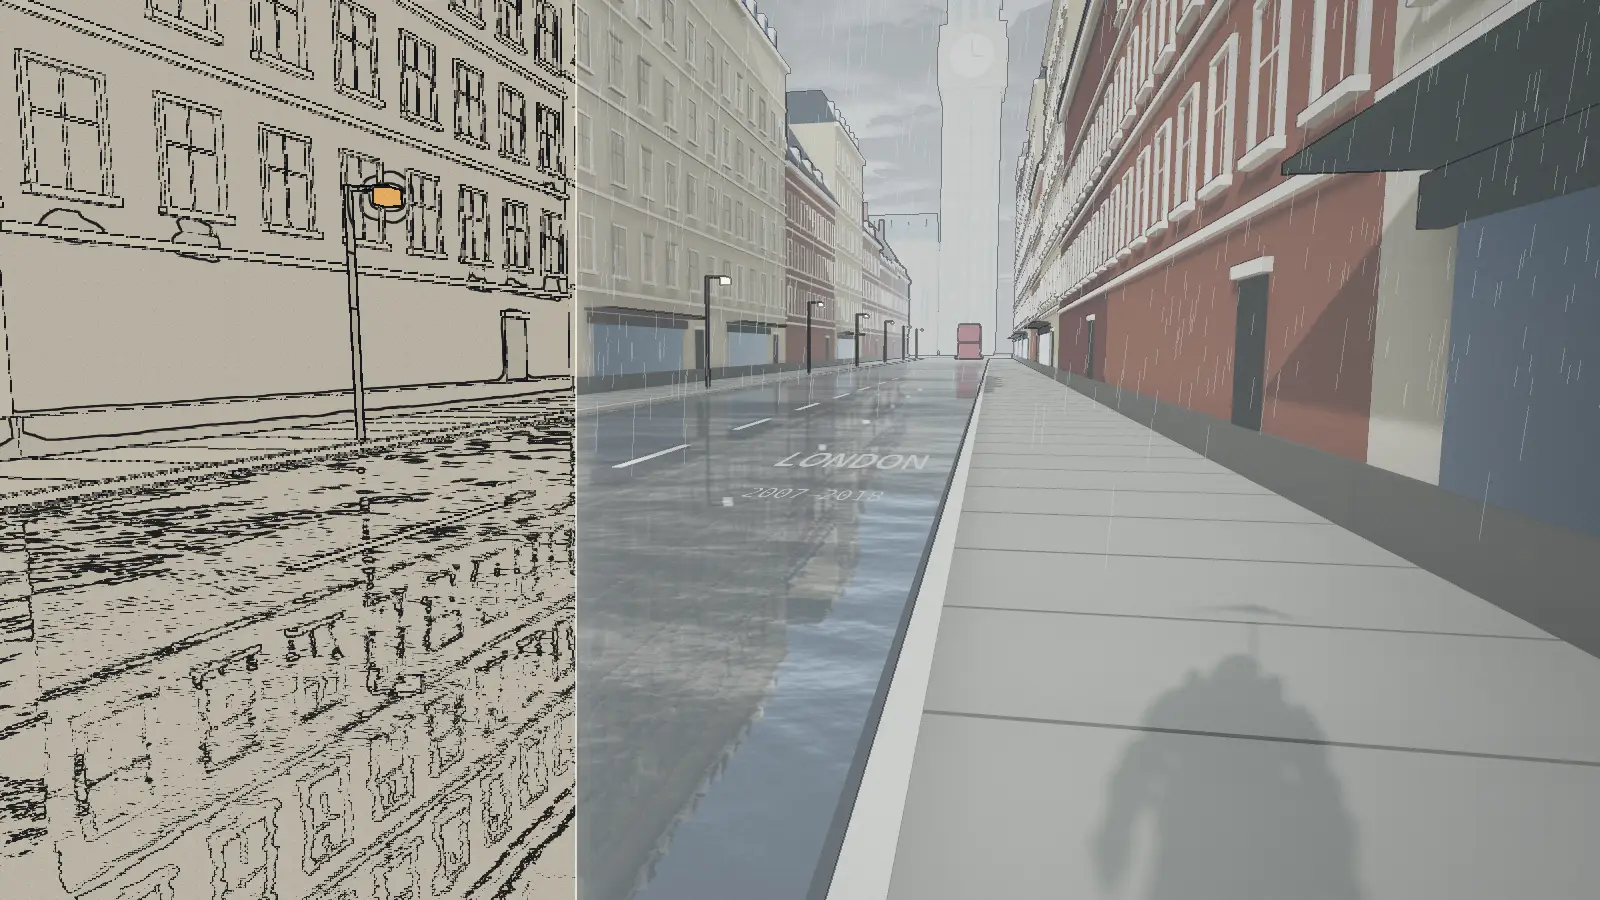
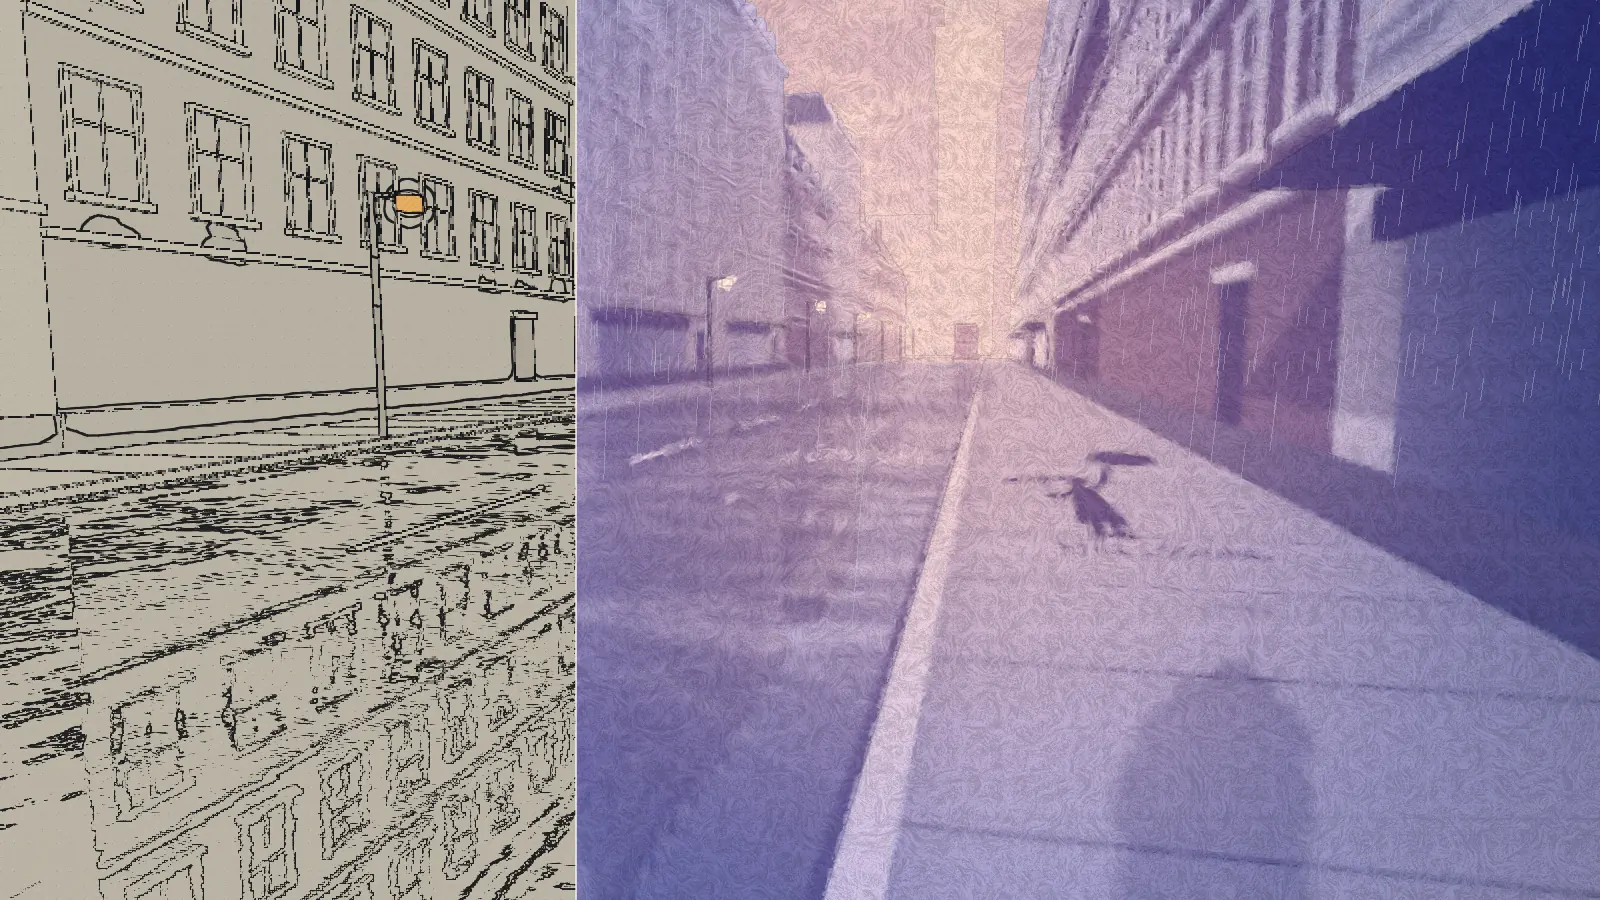
Painters for every city: Hodler, Jansson, Klee, Hiroshige; a pixel colleague in Tokyo
Claude-Session: https://claude.ai/code/session_01JcAdUSaCEjGexocHKPP4qV

diff --git a/js/walk.js b/js/walk.js
@@ -7,7 +7,7 @@ import { ShaderPass } from 'three/addons/postprocessing/ShaderPass.js';
 import { UnrealBloomPass } from 'three/addons/postprocessing/UnrealBloomPass.js';
 import * as SkeletonUtils from 'three/addons/utils/SkeletonUtils.js';
 import { toon, gradientMap } from './kit.js?v=d1954a06';
-import { CITIES, buildCity, vermeerTexture, alpineTexture } from './cities.js?v=9372f113';
+import { CITIES, buildCity, vermeerTexture, alpineTexture } from './cities.js?v=3e9c0b28';
 import { createRoom, ROOM_STATES } from './room.js?v=f2867de1';
 
 export { CITIES, ROOM_STATES };
@@ -50,13 +50,28 @@ const FinalShader = {
     void main(){
       vec3 hdrM = texture2D(tDiffuse, vUv).rgb * uExpo;                   // the meter reads the scene as it is
       vec3 hdr = hdrM; float stroke = 0.5; vec2 uvF = vUv;
-      if (uArt > 0.5) {
-        float kk = 900.0 / uRes.y; vec2 sp = vUv * uRes * kk;
-        bool vg = uArt < 1.5;
-        vec2 q = vg ? sp / 230.0 + uTime * 0.003 : sp / 95.0;             // Van Gogh: long swirls; Monet: short, restless dabs
-        float e = 0.04, n0 = fbm(q), nx = fbm(q + vec2(e, 0.)), ny = fbm(q + vec2(0., e));
-        vec2 d = normalize(vec2(ny - n0, -(nx - n0)) + vec2(1e-5, 0.));
-        float stepPx = vg ? 2.6 : 1.25, cell = vg ? 2.2 : 1.6;
+      // painters: 1 Van Gogh · 2 Monet · 3 Hodler · 4 Jansson · 5 Klee · 6 Hiroshige
+      float kk = 900.0 / uRes.y; vec2 sp = vUv * uRes * kk;
+      vec2 kcell = vec2(0.), kf = vec2(0.);
+      if (uArt > 4.5 && uArt < 5.5) {                                    // Klee: the scene seen through a grid of coloured squares
+        float cs = 34.0; vec2 g = sp / cs + 0.06 * vec2(vnoise(sp * 0.03), vnoise(sp * 0.03 + 7.1));   // hand-ruled, never quite straight
+        kcell = floor(g); kf = fract(g) - 0.5;
+        vec2 cuv = vUv + (-kf * cs) / (uRes * kk);
+        hdr = mix(texture2D(tDiffuse, cuv).rgb * uExpo, hdrM, 0.7); stroke = hash(kcell);
+      } else if (uArt > 0.5 && uArt < 4.5) {
+        vec2 d; float stepPx, cell;
+        if (uArt < 1.5) {        // Van Gogh: long swirls
+          vec2 q = sp / 230.0 + uTime * 0.003; float e = 0.04, n0 = fbm(q), nx = fbm(q + vec2(e, 0.)), ny = fbm(q + vec2(0., e));
+          d = normalize(vec2(ny - n0, -(nx - n0)) + vec2(1e-5, 0.)); stepPx = 2.6; cell = 2.2;
+        } else if (uArt < 2.5) { // Monet: short, restless dabs
+          vec2 q = sp / 95.0; float e = 0.04, n0 = fbm(q), nx = fbm(q + vec2(e, 0.)), ny = fbm(q + vec2(0., e));
+          d = normalize(vec2(ny - n0, -(nx - n0)) + vec2(1e-5, 0.)); stepPx = 1.25; cell = 1.6;
+        } else if (uArt < 3.5) { // Hodler: everything laid in parallel, horizontal bands
+          d = normalize(vec2(1.0, 0.06 * sin(sp.y * 0.02))); stepPx = 2.4; cell = 3.4;
+        } else {                 // Jansson: long, slow curves, like water at dusk
+          vec2 q = sp / 420.0 + uTime * 0.002; float e = 0.04, n0 = fbm(q), nx = fbm(q + vec2(e, 0.)), ny = fbm(q + vec2(0., e));
+          d = normalize(vec2(ny - n0, -(nx - n0)) + vec2(1e-5, 0.)); stepPx = 2.1; cell = 2.6;
+        }
         vec3 acc = vec3(0.); float tex = 0.;
         for (int k = -4; k <= 4; k++) {
           vec2 o = d * float(k) * stepPx;
@@ -64,6 +79,8 @@ const FinalShader = {
           tex += hash(floor((sp + o) / cell));
         }
         hdr = acc / 9.0 * uExpo; stroke = tex / 9.0;
+      } else if (uArt > 5.5) {   // Hiroshige: no strokes — a woodblock: the grain of the block and the fibres of the paper
+        stroke = 0.5 + 0.5 * (vnoise(vec2(sp.x * 0.9, sp.y * 0.05)) - 0.5) + 0.25 * (hash(floor(sp * 0.5)) - 0.5);
       }
       vec2 px = vUv*uRes;
       float vig = smoothstep(1.25, 0.35, length((vUv-0.5)*vec2(uRes.x/uRes.y,1.0)*1.05));
@@ -93,6 +110,15 @@ const FinalShader = {
           cc += rim * uCloudLit * 0.25 * (1.0 - uOvercast);
           skyCol = mix(skyCol, cc, c);
         }
+        if (uArt > 2.5 && uArt < 3.5 && dir.y > 0.0) {                    // Hodler: clouds in rows parallel to the lake
+          float rib = sin(dir.y * 70.0 + fbm(dir.xz / (dir.y + 0.1) * 0.4) * 5.0);
+          float cr = smoothstep(0.55, 0.8, rib) * smoothstep(0.02, 0.1, dir.y) * (1.0 - smoothstep(0.35, 0.6, dir.y));
+          skyCol = mix(skyCol, mix(vec3(.98,.95,.86), vec3(.78,.80,.88), smoothstep(0.65, 0.8, rib)), cr);
+        }
+        if (uArt > 5.5) {                                                  // Hiroshige: the bokashi — Prussian blue printed down from the top
+          skyCol = mix(skyCol, vec3(.02,.07,.26), smoothstep(0.55, 0.95, vUv.y) * 0.9);
+          skyCol = mix(skyCol, vec3(.96,.86,.70), smoothstep(0.35, 0.0, dir.y) * 0.35);   // a warm wash at the horizon
+        }
         felt = skyCol;
       }
       float fl = dot(felt, vec3(0.2126,0.7152,0.0722));
@@ -108,7 +134,7 @@ const FinalShader = {
         if (uArt < 1.5) {   // Van Gogh: ultramarine shadows, chrome-yellow lights, everything a little more
           tint = l < 0.45 ? mix(vec3(.02,.05,.28), vec3(.10,.30,.30), l / 0.45) : mix(vec3(.10,.30,.30), vec3(1.0,.80,.22), (l - 0.45) / 0.55);
           felt = mix(felt * 1.08, tint, 0.38);
-        } else {            // Monet's London: violet and blue close by, the fog glowing rose and orange as it recedes
+        } else if (uArt < 2.5) { // Monet's London: violet and blue close by, the fog glowing rose and orange as it recedes
           float glowR = 1.0 - smoothstep(0.0, 0.75, length((vUv - vec2(0.6, 0.6)) * vec2(uRes.x / uRes.y, 1.0)));
           float far = clamp(max(max(isSky, smoothstep(15.0, 120.0, lin(vUv))) * 0.85, glowR * 0.7), 0.0, 1.0);
           vec3 a0 = mix(vec3(.05,.05,.24), vec3(.30,.17,.32), far), a1 = mix(vec3(.34,.32,.66), vec3(.86,.50,.46), far), a2 = mix(vec3(.88,.62,.74), vec3(1.0,.74,.36), far);
@@ -118,7 +144,25 @@ const FinalShader = {
           felt = mix(felt, vec3(1.0,.55,.25), step(0.965, stroke + hash(floor(px / 3.0)) * 0.04) * far * 0.6);   // flecks of orange in the fog
           ink *= 0.3;       // Monet drew no outlines
         }
-        felt *= (uArt < 1.5 ? 0.80 : 0.82) + (uArt < 1.5 ? 0.40 : 0.36) * st;   // bristle marks along every stroke
+        if (uArt > 2.5 && uArt < 3.5) {        // Hodler: flat, clear, a few colours — lake turquoise, violet shade, pale gold light
+          tint = l < 0.5 ? mix(vec3(.10,.12,.36), vec3(.16,.48,.56), l / 0.5) : mix(vec3(.16,.48,.56), vec3(.98,.92,.62), (l - 0.5) / 0.5);
+          felt = mix(floor(felt * 6.0 + 0.5) / 6.0, tint, 0.38);
+        } else if (uArt > 3.5 && uArt < 4.5) { // Jansson: Stockholm in deep Prussian blue, every light turned to gold
+          tint = l < 0.5 ? mix(vec3(.01,.03,.16), vec3(.06,.20,.52), l / 0.5) : mix(vec3(.06,.20,.52), vec3(1.0,.74,.30), (l - 0.5) / 0.5);
+          felt = mix(felt, tint, 0.62);
+        } else if (uArt > 4.5 && uArt < 5.5) { // Klee: each square its own warm or cool, borders left as bare ground
+          vec3 kp = stroke < 0.17 ? vec3(.90,.55,.25) : stroke < 0.34 ? vec3(.80,.36,.38) : stroke < 0.5 ? vec3(.25,.55,.55) : stroke < 0.67 ? vec3(.52,.40,.62) : stroke < 0.84 ? vec3(.88,.78,.45) : vec3(.55,.62,.42);
+          felt = mix(felt, felt * kp * 1.9, 0.34);
+          float bd = smoothstep(0.44, 0.5, max(abs(kf.x), abs(kf.y)));
+          felt = mix(felt, vec3(.86,.80,.68), bd * 0.3);
+        } else if (uArt > 5.5) {               // Hiroshige: flat colour in four values, and the ink line does the drawing
+          tint = l < 0.45 ? mix(vec3(.06,.09,.24), vec3(.42,.52,.50), l / 0.45) : mix(vec3(.42,.52,.50), vec3(.97,.92,.80), (l - 0.45) / 0.55);
+          felt = mix(felt, tint, 0.3);                                     // indigo, a grey-green, and the paper itself
+          felt = floor(felt * 4.0 + 0.5) / 4.0 * 0.6 + felt * 0.4;
+          ink = min(1.0, ink * 1.4);
+        }
+        float bristle = uArt < 1.5 ? 0.40 : uArt < 2.5 ? 0.36 : uArt < 3.5 ? 0.16 : uArt < 4.5 ? 0.26 : uArt < 5.5 ? 0.12 : 0.22;
+        felt *= (1.0 - bristle * 0.5) + bristle * st;                       // bristle marks, paper grain or woodblock fibre
       }
       felt = srgb(felt);
       felt = mix(felt, felt*vec3(0.32,0.30,0.34), ink*uInkFelt);
@@ -299,7 +343,7 @@ export async function createWalk({ canvas, assets = './assets/', onProgress = ()
   const cache = new Map();
   let cur = -1, city = null, water = null;
   function getCity(i) {
-    if (!cache.has(i)) { const c = buildCity(i, mats, ctx); c.static = c.root.children[c.root.children.length - 1]; cache.set(i, c); c.bakedP = bakeLight(i, c); roadPaint(i, c); streetArt(i, c); }
+    if (!cache.has(i)) { const c = buildCity(i, mats, ctx); c.static = c.root.children[c.root.children.length - 1]; cache.set(i, c); c.bakedP = bakeLight(i, c); roadPaint(i, c); streetArt(i, c); pixelPal(i, c); }
     return cache.get(i);
   }
   /* ray-traced sky light and bounce light, baked once in Blender (bake/bake_city.py) into lm/<city>.webp.
@@ -428,6 +472,85 @@ export async function createWalk({ canvas, assets = './assets/', onProgress = ()
     mesh.position.set(x, (hit ? hit.point.y : 0.14) + 0.02, z);
     c.root.add(mesh);
   }
+
+  /* Tokyo: a small 8-bit colleague who runs on ahead, light meter in hand, and climbs every vending machine on the way.
+     Its readout is a rough horizontal illuminance: direct sun when the sky is clear to the sun, sky alone in shade. */
+  function pixelPal(i, c) {
+    const C = CITIES[i]; if (C.key !== 'tokyo') return;
+    // the right-hand pavement, and the vending machines along it to climb on (sampled once, by casting down)
+    c.static.updateMatrixWorld(true);
+    const down = new THREE.Raycaster(); down.far = 12; const DN = new THREE.Vector3(0, -1, 0), XW = 3.15, XM = 3.0;
+    const prof = [];
+    for (let z = 40; z >= -150; z -= 0.25) {
+      down.set(new THREE.Vector3(XW, 6, z), DN); const g = down.intersectObject(c.static, true)[0];
+      down.set(new THREE.Vector3(XM, 6, z), DN); const m = down.intersectObject(c.static, true)[0];
+      const top = m && m.point.y > 1.7 && m.point.y < 2.1 ? m.point.y : null;
+      prof.push({ z, g: g ? g.point.y : 0.15, m: top });
+    }
+    const spot = (z) => prof[THREE.MathUtils.clamp(Math.round((40 - z) / 0.25), 0, prof.length - 1)];
+    const PAL = { K: '#16161f', H: '#2a2230', S: '#f0c49c', G: '#e8f6ff', C: '#f4f1ea', c: '#c4c8cc', T: '#1f9e8f', P: '#2c3c70', B: '#121216', M: '#5c6370', D: '#ffffff', Y: '#ffd23f' };
+    const F = {
+      measure: ['...........DDD..', '..........KMMMK.', '....KKKK...MMM..', '...KHHHHK...S...', '..KHHHHHHK..S...', '..KHSSSSHK..C...', '..KHGKGSSK..C...', '..KSSSSSSK.CC...', '...KSSSSK.CC....', '..TTTTTTTTC.....', '.CCCCTCCCC......', '.CCCCTCCCc......', '.CCcCCCCcC......', '.SCcCCCCcC......', '..CcCCCCcC......', '..CCCCCCCC......', '...PPP.PPP......', '...PPP.PPP......', '...PP...PP......', '..BBB..BBB......'],
+      run1:    ['................', '................', '....KKKK....DDD.', '...KHHHHK..KMMMK', '..KHHHHHHK..MMM.', '..KHSSSSHK...S..', '..KHGKGSSK..CC..', '..KSSSSSSK.CC...', '...KSSSSK.CC....', '..TTTTTTTTC.....', '.CCCCTCCCC......', 'SCCCCTCCCc......', '.CCcCCCCcC......', '..CcCCCCcC......', '..CCCCCCCC......', '..PPP..PPP......', '.PPP....PPP.....', 'PPP......PP.....', 'BB.......BBB....', '................'],
+      run2:    ['................', '................', '....KKKK....DDD.', '...KHHHHK..KMMMK', '..KHHHHHHK..MMM.', '..KHSSSSHK...S..', '..KHGKGSSK..CC..', '..KSSSSSSK.CC...', '...KSSSSK.CC....', '..TTTTTTTTC.....', '.CCCCTCCCC......', '.CCCCTCCCc......', '.SCcCCCCcC......', '..CcCCCCcC......', '..CCCCCCCC......', '...PPPPPP.......', '....PPPP........', '....PP.PP.......', '...BBB.BBB......', '................'],
+      jump:    ['............DDD.', '...........KMMMK', '....KKKK....MMM.', '...KHHHHK...S...', '..KHHHHHHK..S...', '..KHSSSSHK..C...', 'S.KHGKGSSK.CC...', 'C.KSSSSSSKCC....', 'CC.KSSSSKCC.....', '.CTTTTTTTTC.....', '..CCCTCCCC......', '..CCCTCCCc......', '..CcCCCCcC......', '..CcCCCCcC......', '..CCCCCCCC......', '..PPPPPPPP......', '..PP....PP......', '.BBB....BBB.....', '................', '................']
+    };
+    const tex = {};
+    for (const [k, rows] of Object.entries(F)) for (const flip of [0, 1]) {
+      const cv = document.createElement('canvas'); cv.width = 16; cv.height = 20; const g = cv.getContext('2d');
+      rows.forEach((r, y) => [...r].forEach((ch, x) => { if (ch !== '.') { g.fillStyle = PAL[ch]; g.fillRect(flip ? 15 - x : x, y, 1, 1); } }));
+      const t = new THREE.CanvasTexture(cv); t.magFilter = t.minFilter = THREE.NearestFilter; t.generateMipmaps = false; t.colorSpace = THREE.SRGBColorSpace;
+      tex[k + flip] = t;
+    }
+    const pal = new THREE.Sprite(new THREE.SpriteMaterial({ map: tex.measure0, color: new THREE.Color(1.1, 1.1, 1.1), alphaTest: 0.5, fog: false }));
+    pal.center.set(0.5, 0); pal.scale.set(1.04, 1.3, 1); c.root.add(pal);
+    // the readout: a 3×5 pixel font in a small dark window
+    const GL = { 0: '7,5,5,5,7', 1: '2,6,2,2,7', 2: '7,1,7,4,7', 3: '7,1,3,1,7', 4: '5,5,7,1,1', 5: '7,4,7,1,7', 6: '7,4,7,5,7', 7: '7,1,1,2,2', 8: '7,5,7,5,7', 9: '7,5,7,1,7', L: '4,4,4,4,7', U: '5,5,5,5,7', X: '5,5,2,5,5', ' ': '0,0,0,0,0' };
+    const rc = document.createElement('canvas'); rc.width = 41; rc.height = 9; const rg = rc.getContext('2d');
+    const rtex = new THREE.CanvasTexture(rc); rtex.magFilter = rtex.minFilter = THREE.NearestFilter; rtex.generateMipmaps = false; rtex.colorSpace = THREE.SRGBColorSpace;
+    const drawRead = (str) => {
+      rg.fillStyle = '#16161f'; rg.fillRect(0, 0, 41, 9); rg.fillStyle = '#ffd23f';
+      [...str].forEach((ch, k) => (GL[ch] || GL[' ']).split(',').forEach((row, y) => { for (let x = 0; x < 3; x++) if (+row & (4 >> x)) rg.fillRect(2 + k * 4 + x, 2 + y, 1, 1); }));
+      rtex.needsUpdate = true;
+    };
+    drawRead('LUX 00000');
+    const read = new THREE.Sprite(new THREE.SpriteMaterial({ map: rtex, color: new THREE.Color(1.2, 1.2, 1.2), fog: false }));
+    read.center.set(0.5, 0); read.scale.set(1.85, 0.4, 1); c.root.add(read);
+    // it runs a dozen metres ahead, hops up onto each vending machine it passes, and stops to measure when you stop
+    const ray = new THREE.Raycaster(); ray.far = 200;
+    const pos = new THREE.Vector3(), tgt = new THREE.Vector3(), from = new THREE.Vector3();
+    let lastT = 0, lastZ = null, onTop = null, hop = 1, dist = 0, still = 0, E = 0, Eshow = 0, nextRead = 0, lastStr = '';
+    c.movers.push((t, cz) => {
+      const dt = Math.min(0.1, Math.max(0, t - lastT)); lastT = t;
+      const z = cz - 12.5, sp = spot(z), up = sp.m != null;
+      tgt.set(up ? XM : XW, up ? sp.m : sp.g, z);
+      const moved = lastZ == null ? 0 : Math.abs(z - lastZ); lastZ = z; dist += moved;
+      still = moved > 1e-4 ? 0 : still + dt;
+      if (onTop === null) { onTop = up; pos.copy(tgt); }
+      if (up !== onTop) { onTop = up; from.copy(pos); hop = 0; }
+      if (hop < 1) {
+        hop = Math.min(1, hop + Math.max(dt, moved * 0.4) / 0.45);
+        pos.lerpVectors(from, tgt, hop); pos.y += Math.sin(hop * Math.PI) * 0.9;
+        pal.material.map = tex.jump0;
+      } else {
+        pos.copy(tgt);
+        if (still > 0.25) { pal.material.map = tex.measure0; pos.y += Math.abs(Math.sin(t * 4.0)) * 0.03; }
+        else { const ph = Math.floor(dist / 0.55) % 2; pal.material.map = tex['run' + (1 + ph) + '0']; pos.y += ph * 0.05; }
+      }
+      pal.position.copy(pos); read.position.set(pos.x, pos.y + 1.42, pos.z);
+      if (t > nextRead) {                                    // take a reading: can the meter's dome see the sun?
+        nextRead = t + 0.3;
+        const o = pos.clone(); o.y += 1.25; ray.set(o, state.L);
+        const shade = ray.intersectObject(c.static, true).length > 0;
+        E = (shade ? 0 : 92000 * Math.max(0, state.L.y)) + 16000 * (shade ? 0.55 : 1);
+        E *= 1 + Math.sin(t * 13.1) * 0.004;
+      }
+      Eshow += (E - Eshow) * Math.min(1, dt * 6);
+      const str = 'LUX ' + String(Math.round(Math.min(99999, Eshow) / 10) * 10).padStart(5, '0');
+      if (str !== lastStr) { drawRead(str); lastStr = str; }
+    });
+  }
+
   function lightFill() { hemi.intensity = hemiBase * (city && city.baked && useBaked ? BAKED_HEMI : 1); }
   function setBaked(v) {
     useBaked = !!v;

diff --git a/js/cities.js b/js/cities.js
@@ -276,19 +276,19 @@ export const CITIES = [
   // Lausanne — alpine clarity over the lake, deep blue, sharp mountains
   { key: 'lausanne', name: 'Lausanne', lat: 46.5, camX: -0.6, yaw: 0.0, cloudY: 380, sun: { alt: 17, az: 20 }, sky: { turbidity: 1.6, rayleigh: 1.6, mie: 0.003, g: 0.8 }, fog: [0xd2dae4, 160, 2800], expo: 0.66,
     cloudDeck: { cov: 0.22, scale: 1.1, lit: 0xffffff, shade: 0xc4cde0 }, family: 'pram', grade: [1.02, 1.0, 1.0],
-    look: { sat: 1.12, con: 1.04, lift: [0.02, 0.025, 0.035], skyTop: 0x2f66c0, skyBot: 0xcfe0ef, skyMix: 0.6, bloom: 0.3 } },
+    look: { sat: 1.12, con: 1.04, lift: [0.02, 0.025, 0.035], skyTop: 0x2f66c0, skyBot: 0xcfe0ef, skyMix: 0.6, bloom: 0.3, art: 3 } },
   // Stockholm — the low northern sun: long gold light, pastel facades, a pink-apricot sky
   { key: 'stockholm', name: 'Stockholm', lat: 59.3, camX: -1.2, yaw: 0.04, sun: { alt: 8, az: -4 }, sky: { turbidity: 2.4, rayleigh: 2.8, mie: 0.008, g: 0.86 }, fog: [0xe4c8ac, 60, 400], expo: 1.0,
     cloudDeck: { cov: 0.3, scale: 1.6, lit: 0xffe2c4, shade: 0xc49a9a }, family: 'pram', grade: [1.05, 0.99, 0.94],
-    look: { sat: 1.08, con: 1.02, lift: [0.03, 0.015, 0.0], skyTop: 0x6f8fc0, skyBot: 0xf3c9a2, skyMix: 0.55, bloom: 0.42 } },
+    look: { sat: 1.08, con: 1.02, lift: [0.03, 0.015, 0.0], skyTop: 0x6f8fc0, skyBot: 0xf3c9a2, skyMix: 0.55, bloom: 0.42, art: 4 } },
   // Zürich — Föhn-clear: crisp, cool, clean
   { key: 'zurich', name: 'Zürich', lat: 47.4, camX: 5.4, yaw: 0.2, sun: { alt: 24, az: -14 }, sky: { turbidity: 1.8, rayleigh: 1.7, mie: 0.004, g: 0.8 }, fog: [0xcfdbe8, 70, 440], expo: 0.92,
     cloudDeck: { cov: 0.18, scale: 1.3, lit: 0xffffff, shade: 0xc8d0e2 }, family: 'three', grade: [0.99, 1.0, 1.03],
-    look: { sat: 1.1, con: 1.08, lift: [0.0, 0.005, 0.015], skyTop: 0x2e65bd, skyBot: 0xd4e3f0, skyMix: 0.55, bloom: 0.26 } },
+    look: { sat: 1.1, con: 1.08, lift: [0.0, 0.005, 0.015], skyTop: 0x2e65bd, skyBot: 0xd4e3f0, skyMix: 0.55, bloom: 0.26, art: 5 } },
   // Tokyo — the clear Tokyo blue: saturated sky, white cumulus, bright and sharp
   { key: 'tokyo', name: 'Tokyo', lat: 35.7, camX: 0.5, yaw: 0.1, sun: { alt: 27, az: -12 }, sky: { turbidity: 2.0, rayleigh: 2.2, mie: 0.006, g: 0.85 }, fog: [0xd6e4f0, 80, 1100], expo: 1.0,
     cloudDeck: { cov: 0.36, scale: 0.8, lit: 0xffffff, litI: 1.1, shade: 0xb4c4e4, wind: [0.008, 0.012] }, family: 'tokyo', grade: [1.0, 1.0, 1.02],
-    look: { sat: 1.18, con: 1.06, skyTop: 0x1550c4, skyBot: 0xa9d4f2, skyMix: 1.0, bloom: 0.34 } }
+    look: { sat: 1.18, con: 1.06, skyTop: 0x1550c4, skyBot: 0xa9d4f2, skyMix: 1.0, bloom: 0.34, art: 6 } }
 ];
 
 export function buildCity(i, mats, ctx) {

diff --git a/index.html b/index.html
@@ -586,7 +586,7 @@
 
 <script type="importmap">{ "imports": { "three": "./lib/three.module.min.js", "three/addons/": "./lib/addons/" } }</script>
 <script type="module">
-import { createWalk } from './js/walk.js?v=8ddc72cb';
+import { createWalk } from './js/walk.js?v=11916225';
 import { createSky } from './js/sky.js?v=62e90914';
 import { PUBS, THEMES } from './js/pubs.js?v=d0ccaa0d';
 
